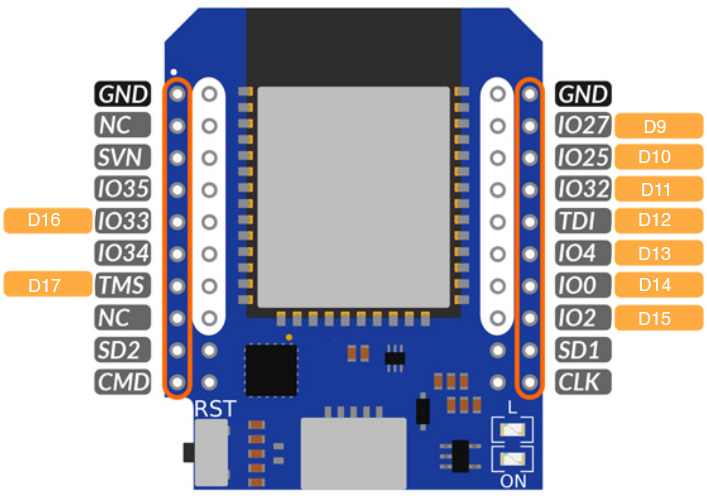
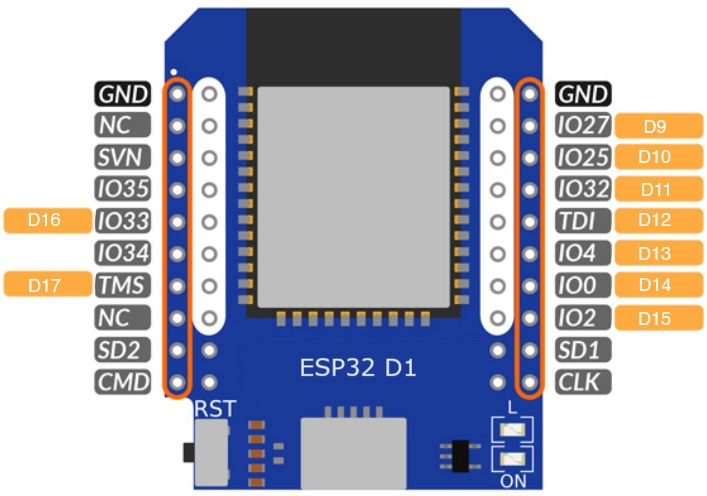
V1.31

diff --git a/README.md b/README.md
@@ -28,14 +28,12 @@ Beschreibung & Anleitung: [gitbook](https://innuendopi.gitbook.io/brautomat\_de/
 
 ## Pin-Belegung
 
-Der ESP32 D1 bietet ein Pinout passend zum ESP8266 (GPIO D0 bis D8). Die folgende Pinbelegung basiert auf dem Modul ESP32 D1 Mini NodeMCU von [AZ-Delivery](https://www.az-delivery.de/products/esp32-d1-mini)
+Der ESP32 D1 bietet ein Pinout passend zum ESP8266 (GPIO D0 bis D8). Die dargestellte Pinbelegung basiert auf dem Modul ESP32 D1 Mini NodeMCU von [AZ-Delivery](https://www.az-delivery.de/products/esp32-d1-mini)
 
 GPIO Zuordnung:
 
 ![ESP32 D1 Pinout-1](/docs/img/ESP32-D1.pinout-1.jpg)
 ![ESP32 D1 Pinout-2](/docs/img/ESP32-D1.pinout-2.jpg)
-
-(Grafiken &copy; [AZ-Delivery](https://cdn.shopify.com/s/files/1/1509/1638/files/D1_Mini_ESP32_Datenblatt_AZ-Delivery_Vertriebs_GmbH.pdf?v=1604068666) - Anpassungen für Pinbelegung mit D-Bezeichnern)
 
 | Bezeichner |   GPIO   | Beschreibung |
 | ---------- | -------- | ------------ |
